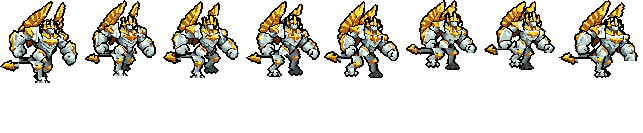
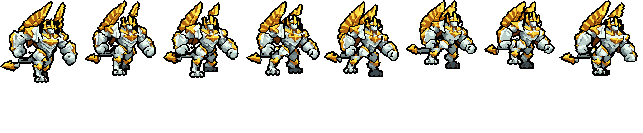
league_galio run on the design's own legs (the user: 「还是变形啊 你不自己review的吗」)
The bone-drawn legs with pasted knee guards / feet were thinner than the design's and read as foreign legs. run_legs
now cuts the design's two legs from the idle as they are (thighs, gold knee guards, shins, the clawed foot) and turns
each about its hip by row shear (rigkit.swing_leg: a straight-legged scissor stride, the foot moved whole and lifted
at most 3 game px as it swings back); the near foot mirrored (claws forward), the far leg on the same foot a step
darker (the design's far foot is a dark lump at this size), the outline closed only where the cut took it (an extra
ring had doubled it). Checked: every hd_run frame one piece, no specks, no open light squares, the enclosed gaps only
between the back arm and the body and between the legs; ppu_hd --check clean.

diff --git a/tools/art/rig_galio.py b/tools/art/rig_galio.py
@@ -390,36 +390,29 @@ def down(can):
 
 
 # ------------------------------------------------------------------------------------------------ the run's legs
-# Codex's run kept the light leg forward and the dark one back in all 8 frames (the user: 「走路没有交叉步」), so the
-# legs are redrawn on the PPU canvas league_caitlyn's way (fix_caitlyn_run_v2.py, strips_irelia.py RUN_PHASES): one leg
-# in eight phases (only the ankle placed, the knee solved at fixed bone lengths) in the design's stone, the far leg
-# (image right, a step darker, a row higher: the 3/4 body) four phases on; Codex's upper body, arms and tail kept over
-# them, the tail carried to the hips. Numbers in game pixels from the pivot (x right, y down); PPU squares each.
-RUN_LIT, RUN_MID, RUN_DRK = (236, 251, 241), (190, 208, 202), (149, 169, 168)
-RUN_FL, RUN_FM, RUN_FD = (124, 143, 145), (103, 120, 123), (60, 73, 78)
+# Codex's run kept the light leg forward and the dark one back in all 8 frames (the user: 「走路没有交叉步」). Legs drawn
+# along bones with the knee guards and feet pasted on read as foreign legs, thinner than the design's (「腿部变形？」
+# 「还是变形啊 你不自己review的吗」), so the run walks on the design's own two legs, cut from the idle as they are
+# (thighs, gold knee guards, shins, the clawed foot), each turned about its hip by row shear (rigkit.swing_leg: a
+# straight-legged scissor stride, the foot moved whole and lifted as it swings back), the near foot mirrored (claws
+# forward) and the far leg on the same foot a step darker, the far leg four phases on and drawn first, the outline
+# closed where the cut took it; Codex's upper body, fists and tail kept over them, the tail carried to the hips. Numbers
+# in game pixels from the pivot (x right, y down); PPU squares each.
 RUN_CUT = -2                     # rows from RUN_CUT down are redrawn (the legs, the tail's root) ...
 RUN_KEEP = (9, 0, -15, -1)       # ... but the front fist (right of 9, down to row 0) and the back one (left of -15, to -1)
 RUN_TAILX = -13                  # Codex's tail kept left of this column
-RUN_HIP_Y = -3.0
-RUN_NEAR_HX, RUN_FAR_HX = -4.5, 2.5  # the hips: near (image left, full tone), far (image right, a step darker, a row higher)
-RUN_ANK_Y = 8.0                  # a planted ankle (its foot under it, the soles on row 11)
-RUN_LT, RUN_LS = 6.0, 6.0
-RUN_WID = (5.0, 3.0)             # the design's thigh and shin widths (10 and 6 squares)
-# the ankle's x from the hip and its lift over 8 phases (strips_irelia.py RUN_PHASES 4 on); the heel kept low behind
-# (a lift of 5 laid the shin flat: 「腿部变形」)
-RUN_PH = [(4.0, 0), (2.0, 0), (0.0, 0), (-2.5, 1.0), (-4.0, 2.5), (-3.5, 3.0), (0.5, 3.0), (3.5, 1.5)]
-# the design's own pieces (design rows r0..r1, columns c0..c1, the joint's square): the gold knee guards and the near
-# clawed foot, pasted on the knee / ankle as they are (league_garen's run: the idle's own knee guard and boot) - the foot
-# mirrored, its claws forward (the design's point to the front-left), and for the far leg a step darker (the design's
-# far foot is a dark lump at this size)
-RUN_PIECES = {"near_guard": ((79, 88, 39, 48), (44, 84)), "far_guard": ((81, 89, 55, 64), (59, 85)),
-              "foot": ((94, 103, 28, 48), (41, 94))}
+RUN_LEGS = {"near": [(66, 81, 35, 50), (82, 95, 35, 47), (96, 103, 28, 48)],    # design rows r0..r1, columns c0..c1
+            "far": [(66, 81, 51, 64), (82, 95, 48, 64), (96, 103, 49, 71)]}
+RUN_HIP = 70                     # the design row the legs turn about
+RUN_ANKLE = {"near": 95, "far": 96}   # the design row from which the foot moves whole
+RUN_AXIS = 40                    # the near shin's middle column: its foot mirrored about it
+RUN_FAR_FOOT = (15, -1)          # the far leg's foot: the near one (its own is a dark lump with a white speck at this
+                                 # size) moved under the far shin and a row up, a step darker (RUN_DARKER)
 RUN_DARKER = {(236, 251, 241): (190, 208, 202), (244, 250, 246): (190, 208, 202), (190, 208, 202): (124, 143, 145),
               (149, 169, 168): (103, 120, 123), (124, 143, 145): (103, 120, 123), (103, 120, 123): (60, 73, 78)}
-RUN_NEAR = {"upper": [(0, 1, (RUN_LIT, RUN_MID, RUN_DRK))], "fore": [(0, 1, (RUN_MID, RUN_DRK, RUN_FL))],
-            "guard": "near_guard", "dark": False}
-RUN_FAR = {"upper": [(0, 1, (RUN_FL, RUN_FM, RUN_FD))], "fore": [(0, 1, (RUN_FL, RUN_FM, RUN_FD))],
-           "guard": "far_guard", "dark": True}
+RUN_RING = 72                    # the legs' own outline ring from this design row down (above it the body covers them)
+# the ankle's x from its place in the idle and its lift over 8 phases (strips_irelia.py RUN_PHASES 4 on), game px
+RUN_PH = [(4.0, 0), (2.0, 0), (0.0, 0), (-2.5, 1.0), (-4.0, 2.5), (-3.5, 3.0), (0.5, 3.0), (3.5, 1.5)]
 
 
 def to_can(x, y):
@@ -427,48 +420,42 @@ def to_can(x, y):
     return PIV_X - 0.5 + PPU * x, SOLE - FEET * PPU + PPU * y
 
 
-def run_piece(name, mirror=False, dark=False):
-    """A design piece without its outline (the biggest light part and what it encloses) and its joint inside it."""
-    (r0, r1, c0, c1), (jx, jy) = RUN_PIECES[name]
-    p = design()[r0:r1 + 1, c0:c1 + 1].copy()
-    light = (p[..., 3] > 0) & (p[..., :3].astype(int).sum(-1) >= 70)
-    lab, n = ndimage.label(light)
-    if n:
-        big = lab == 1 + int(np.argmax(ndimage.sum(light, lab, range(1, n + 1))))
-        p[~ndimage.binary_fill_holes(big)] = 0
-    jx, jy = jx - c0, jy - r0
-    if mirror:
-        p, jx = p[:, ::-1].copy(), p.shape[1] - 1 - jx
-    if dark:
-        for c, d in RUN_DARKER.items():
-            p[(p[..., :3] == c).all(-1) & (p[..., 3] > 0), :3] = d
-    return p, (jx, jy)
+def run_pieces():
+    """The design's two legs on the canvas: {name: leg} - each its own squares and only the outline round them."""
+    idle = on_canvas(design())
+    H, W = idle.shape[:2]
+    yy, xx = np.mgrid[0:H, 0:W]
+    x0, y0 = DESIGN_AT
+    dr, dc = yy - y0, xx - x0
+    out = {}
+    for name, boxes in RUN_LEGS.items():
+        m = np.zeros((H, W), bool)
+        for r0, r1, c0, c1 in boxes:
+            m |= (dr >= r0) & (dr <= r1) & (dc >= c0) & (dc <= c1)
+        leg = np.where(m[..., None], idle, 0).astype(np.uint8)
+        op = leg[..., 3] > 0
+        light = op & (leg[..., :3].astype(int).sum(-1) >= 70)
+        leg[op & ~light & ~ndimage.binary_dilation(light, structure=np.ones((3, 3)), iterations=2)] = 0
+        out[name] = leg
+    near, far = out["near"], out["far"]
+    foot = near.copy()
+    foot[:y0 + RUN_ANKLE["near"]] = 0
+    near[y0 + RUN_ANKLE["near"]:] = 0
+    ys, xs = np.nonzero(foot[..., 3])
+    xs = 2 * (x0 + RUN_AXIS) - xs
+    near[ys, xs] = foot[ys, 2 * (x0 + RUN_AXIS) - xs]
+    far[y0 + RUN_ANKLE["far"]:] = 0
+    dx, dy = RUN_FAR_FOOT
+    dark = foot[ys, 2 * (x0 + RUN_AXIS) - xs].copy()
+    for c, d in RUN_DARKER.items():
+        dark[(dark[:, :3] == c).all(-1), :3] = d
+    far[ys + dy, xs + dx] = dark
+    return out
 
 
-def run_leg(dst, hip, k, mats):
-    """One leg at phase k from its hip (game px): the ankle placed (RUN_PH), the knee solved (rigkit.elbow, bent
-    forward), thigh and shin drawn in its stone at the design's widths (rigkit.bone_arm), the design's foot on the ankle
-    and knee guard on the knee, one outline ring PPU squares thick round the whole leg over whatever is under it."""
-    s = int(PPU)
-    ax, lift = RUN_PH[k]
-    hx, hy = hip
-    knee, ankle = K.elbow(hip, (hx + ax, hy + RUN_ANK_Y - RUN_HIP_Y - lift), RUN_LT, RUN_LS, bend=-1)
-    if knee[0] < min(hx, ankle[0]):
-        knee, ankle = K.elbow(hip, ankle, RUN_LT, RUN_LS, bend=1)
-    tmp = np.zeros_like(dst)
-    K.bone_arm(tmp, to_can(*hip), to_can(*knee), to_can(*ankle), mats, width=(RUN_WID[0] * s, RUN_WID[1] * s))
-    for piece, (jx, jy), at in ((*run_piece("foot", mirror=True, dark=mats["dark"]), ankle),
-                                (*run_piece(mats["guard"]), knee)):
-        X, Y = (int(round(v)) for v in to_can(*at))
-        K.put(tmp, piece, X - jx, Y - jy)
-    m = tmp[..., 3] > 0
-    ring = ndimage.binary_dilation(m, iterations=s) & ~m
-    dst[ring] = (*OUTLINE, 255)
-    dst[m] = tmp[m]
-
-
-def run_legs(can, k):
+def run_legs(can, k, legs=None):
     """A run frame's canvas with the legs redrawn at phase k (the far leg k + 4)."""
+    legs = legs or run_pieces()
     H, W = can.shape[:2]
     yy, xx = np.mgrid[0:H, 0:W]
     x0, y0 = to_can(0, 0)
@@ -487,16 +474,25 @@ def run_legs(can, k):
     if len(ys):
         mid = (ys.min() + ys.max()) // 2
         r0, r1 = int(mid - PPU), int(mid + PPU)
-        c0, c1 = edge + 1, int(math.floor(to_can(RUN_NEAR_HX, 0)[0]))
-        out[r0:mid, c0:c1] = (*RUN_FL, 255)
-        out[mid:r1, c0:c1] = (*RUN_FM, 255)
+        c0, c1 = edge + 1, DESIGN_AT[0] + RUN_LEGS["near"][0][2] + 2
+        out[r0:mid, c0:c1] = (124, 143, 145, 255)
+        out[mid:r1, c0:c1] = (103, 120, 123, 255)
         out[r0 - int(PPU):r0, c0:c1] = (*OUTLINE, 255)
         out[r1:r1 + int(PPU), c0:c1] = (*OUTLINE, 255)
-    run_leg(out, (RUN_FAR_HX, RUN_HIP_Y - 1), (k + 4) % 8, RUN_FAR)
-    run_leg(out, (RUN_NEAR_HX, RUN_HIP_Y), k, RUN_NEAR)
+    y_d = DESIGN_AT[1]
+    for name, ph in (("far", RUN_PH[(k + 4) % 8]), ("near", RUN_PH[k])):
+        dx, lift = ph
+        leg = legs[name]
+        sw = K.swing_leg(leg, leg[..., 3] > 0, y_d + RUN_HIP, y_d + RUN_ANKLE[name], dx * PPU, int(round(lift * PPU)))
+        m = sw[..., 3] > 0
+        light = m & (sw[..., :3].astype(int).sum(-1) >= 70)
+        ring = ndimage.binary_dilation(light, iterations=int(PPU)) & ~m      # only where the cut lost the outline
+        ring[:y_d + RUN_RING] = False
+        out[ring] = (*OUTLINE, 255)
+        out[m] = sw[m]
     K.put(out, upper, 0, 0)
     out[SOLE + 1:] = 0
-    return out
+    return specks(pinholes(close_all(out)))
 
 
 def dense(can, one):
@@ -542,12 +538,13 @@ def main():
     ap.add_argument("--review", help="write every tag's dense frames at 4x on magenta here")
     a = ap.parse_args()
     acts = actions()
+    legs = run_pieces()
     sheet = {}
     for tag, frames in acts.items():
         ones, hds = [], []
         for k, (can, t) in enumerate(frames):
             if tag == "run":
-                can = run_legs(can, k)
+                can = run_legs(can, k, legs)
                 frames[k] = (can, t)
             one = down(can)
             ones.append((one, round(t, 3)))
